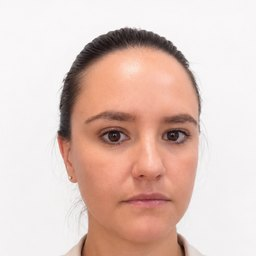
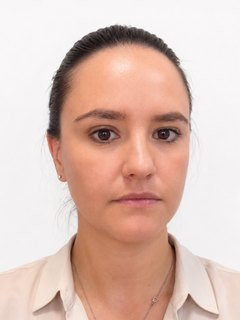
Foto en marco vertical (tipo carné) con la cabeza completa

diff --git a/index.html b/index.html
@@ -8,12 +8,12 @@
   <meta name="theme-color" content="#160d1d">
   <link rel="icon" type="image/png" href="img/icono.png">
   <link rel="apple-touch-icon" href="img/icono-180.png">
-  <link rel="stylesheet" href="styles.css?v=20261025f">
+  <link rel="stylesheet" href="styles.css?v=20261025g">
 </head>
 <body>
   <div class="envoltorio">
     <header class="cabecera">
-      <img class="logo avatar" src="img/maria.jpg" alt="Foto de María Oyonarte" width="52" height="52">
+      <img class="logo avatar" src="img/maria.jpg?v=2" alt="Foto de María Oyonarte" width="54" height="72">
       <div>
         <h1>María Oyonarte</h1>
         <p>Estudiante del CFGS Sistemas de Telecomunicaciones e Informáticos</p>
@@ -40,8 +40,8 @@
 
     <footer class="pie">Preguntas elaboradas a partir del temario de cada unidad, más las autoevaluaciones de la plataforma. Material de estudio no oficial.</footer>
   </div>
-  <script src="data/indice.js?v=20261025f"></script>
-  <script src="comun.js?v=20261025f"></script>
-  <script src="app.js?v=20261025f"></script>
+  <script src="data/indice.js?v=20261025g"></script>
+  <script src="comun.js?v=20261025g"></script>
+  <script src="app.js?v=20261025g"></script>
 </body>
 </html>

diff --git a/styles.css b/styles.css
@@ -61,7 +61,7 @@ a { color: inherit; }
 @media (min-width: 640px) { .saludo { grid-template-columns: 1fr auto; align-items: center; } .cifras { grid-template-columns: repeat(4, minmax(90px, 1fr)); } }
 
 /* Foto de María en la cabecera */
-.avatar { object-fit: cover; padding: 0; background: #2a1638; border: 2px solid var(--cyan); box-shadow: 0 0 14px rgba(98, 231, 242, .55), 0 0 26px rgba(155, 99, 244, .35); }
+.avatar { width: 54px; height: 72px; border-radius: 12px; object-fit: cover; object-position: center top; padding: 0; background: #2a1638; border: 2px solid var(--cyan); box-shadow: 0 0 14px rgba(98, 231, 242, .55), 0 0 26px rgba(155, 99, 244, .35); }
 
 /* Botonera principal */
 .botonera { display: grid; grid-template-columns: repeat(2, minmax(0, 1fr)); gap: 10px; margin: 16px 0; }

diff --git a/examen.html b/examen.html
@@ -256,8 +256,8 @@
   </div>
 
   <div id="toast" class="toast hidden" role="status"></div>
-  <script src="data/indice.js?v=20261025f"></script>
-  <script src="comun.js?v=20261025f"></script>
+  <script src="data/indice.js?v=20261025g"></script>
+  <script src="comun.js?v=20261025g"></script>
   <script>
     // Parámetros: ?u=M1_U01&t=1|2|azar|oficial|fallos. Se cargan los archivos de la unidad antes del examen.
     const PARAM = new URLSearchParams(location.search);

diff --git a/comun.js b/comun.js
@@ -5,7 +5,7 @@ window.BANCO = window.BANCO || {};
 const ALUMNA = { nombre: "María", completo: "María Oyonarte" };
 
 // Versión de los archivos: cámbiala al publicar para que el navegador no use copias antiguas.
-const VERSION = "20261025f";
+const VERSION = "20261025g";
 
 function saludo() {
   const h = new Date().getHours();
